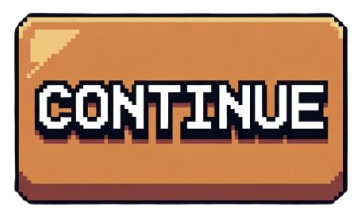
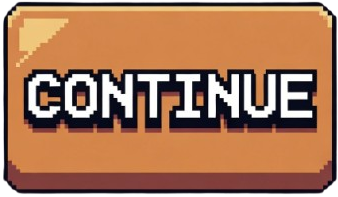
release

diff --git a/app/page.tsx b/app/page.tsx
@@ -153,7 +153,7 @@ const saveGame = () => {
   }}
   style={{
     cursor: "pointer",
-    marginTop: "10px",
+    marginTop: "5px",
   }}
 />
 